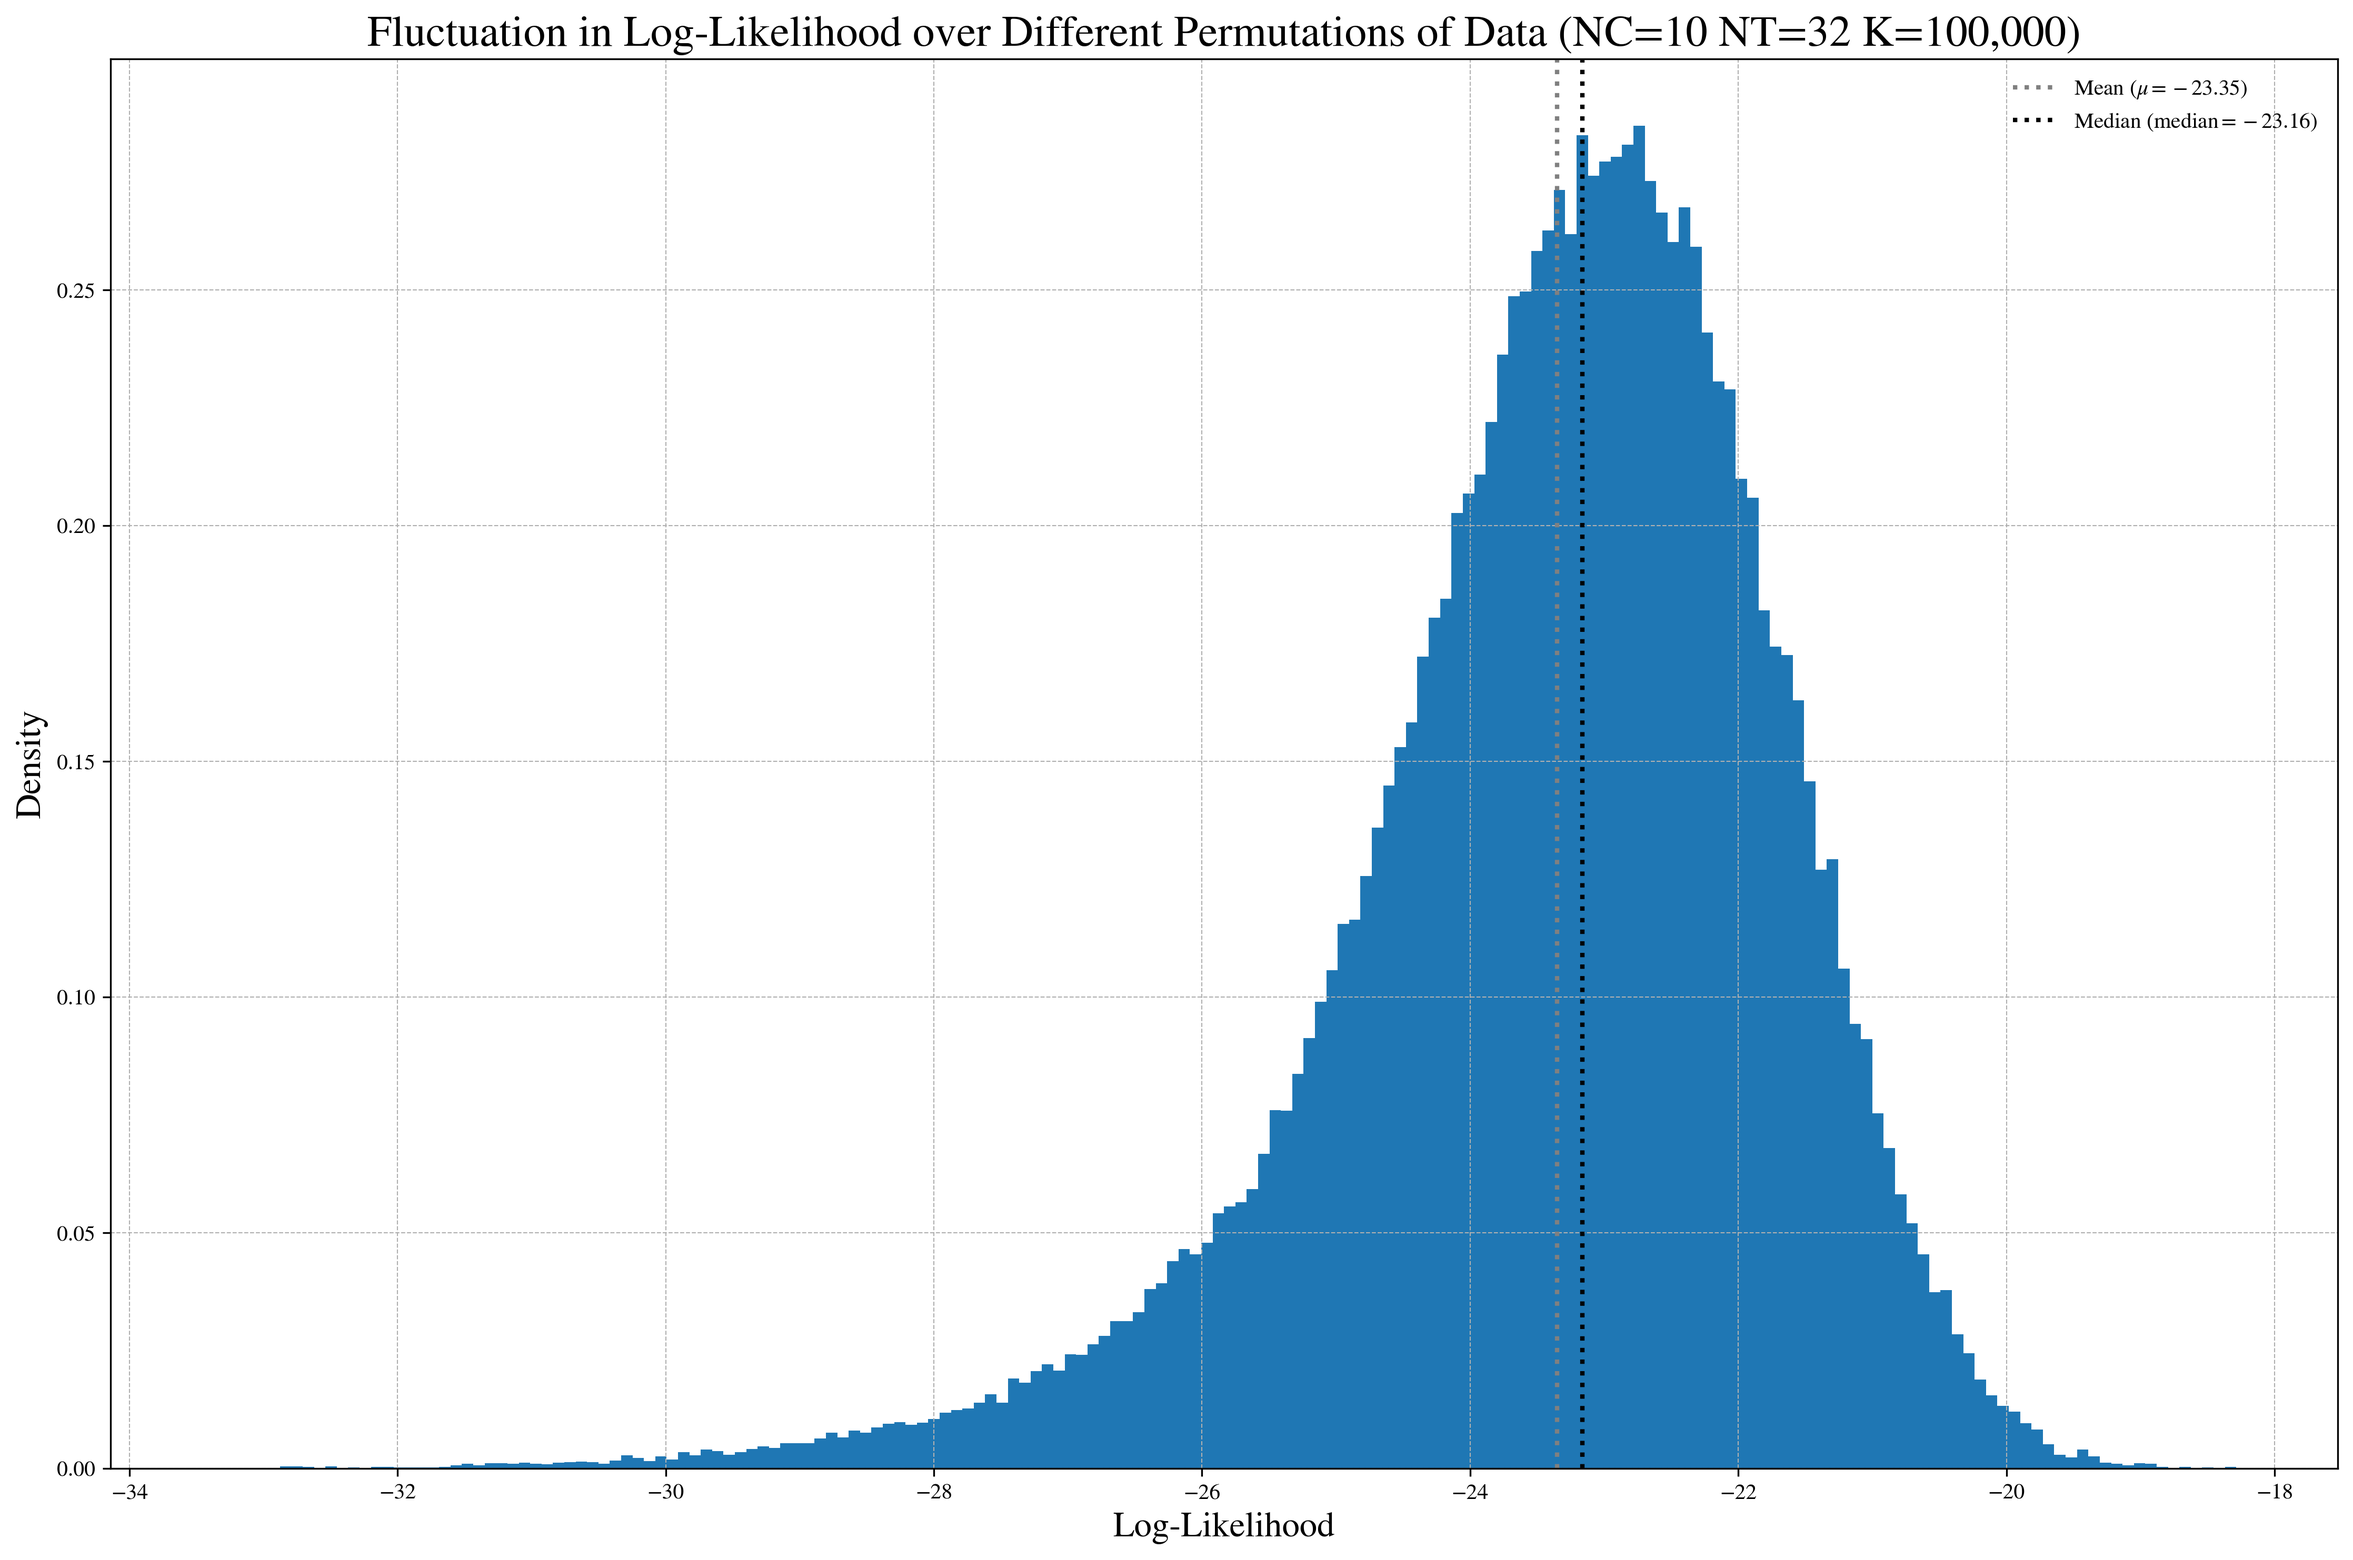
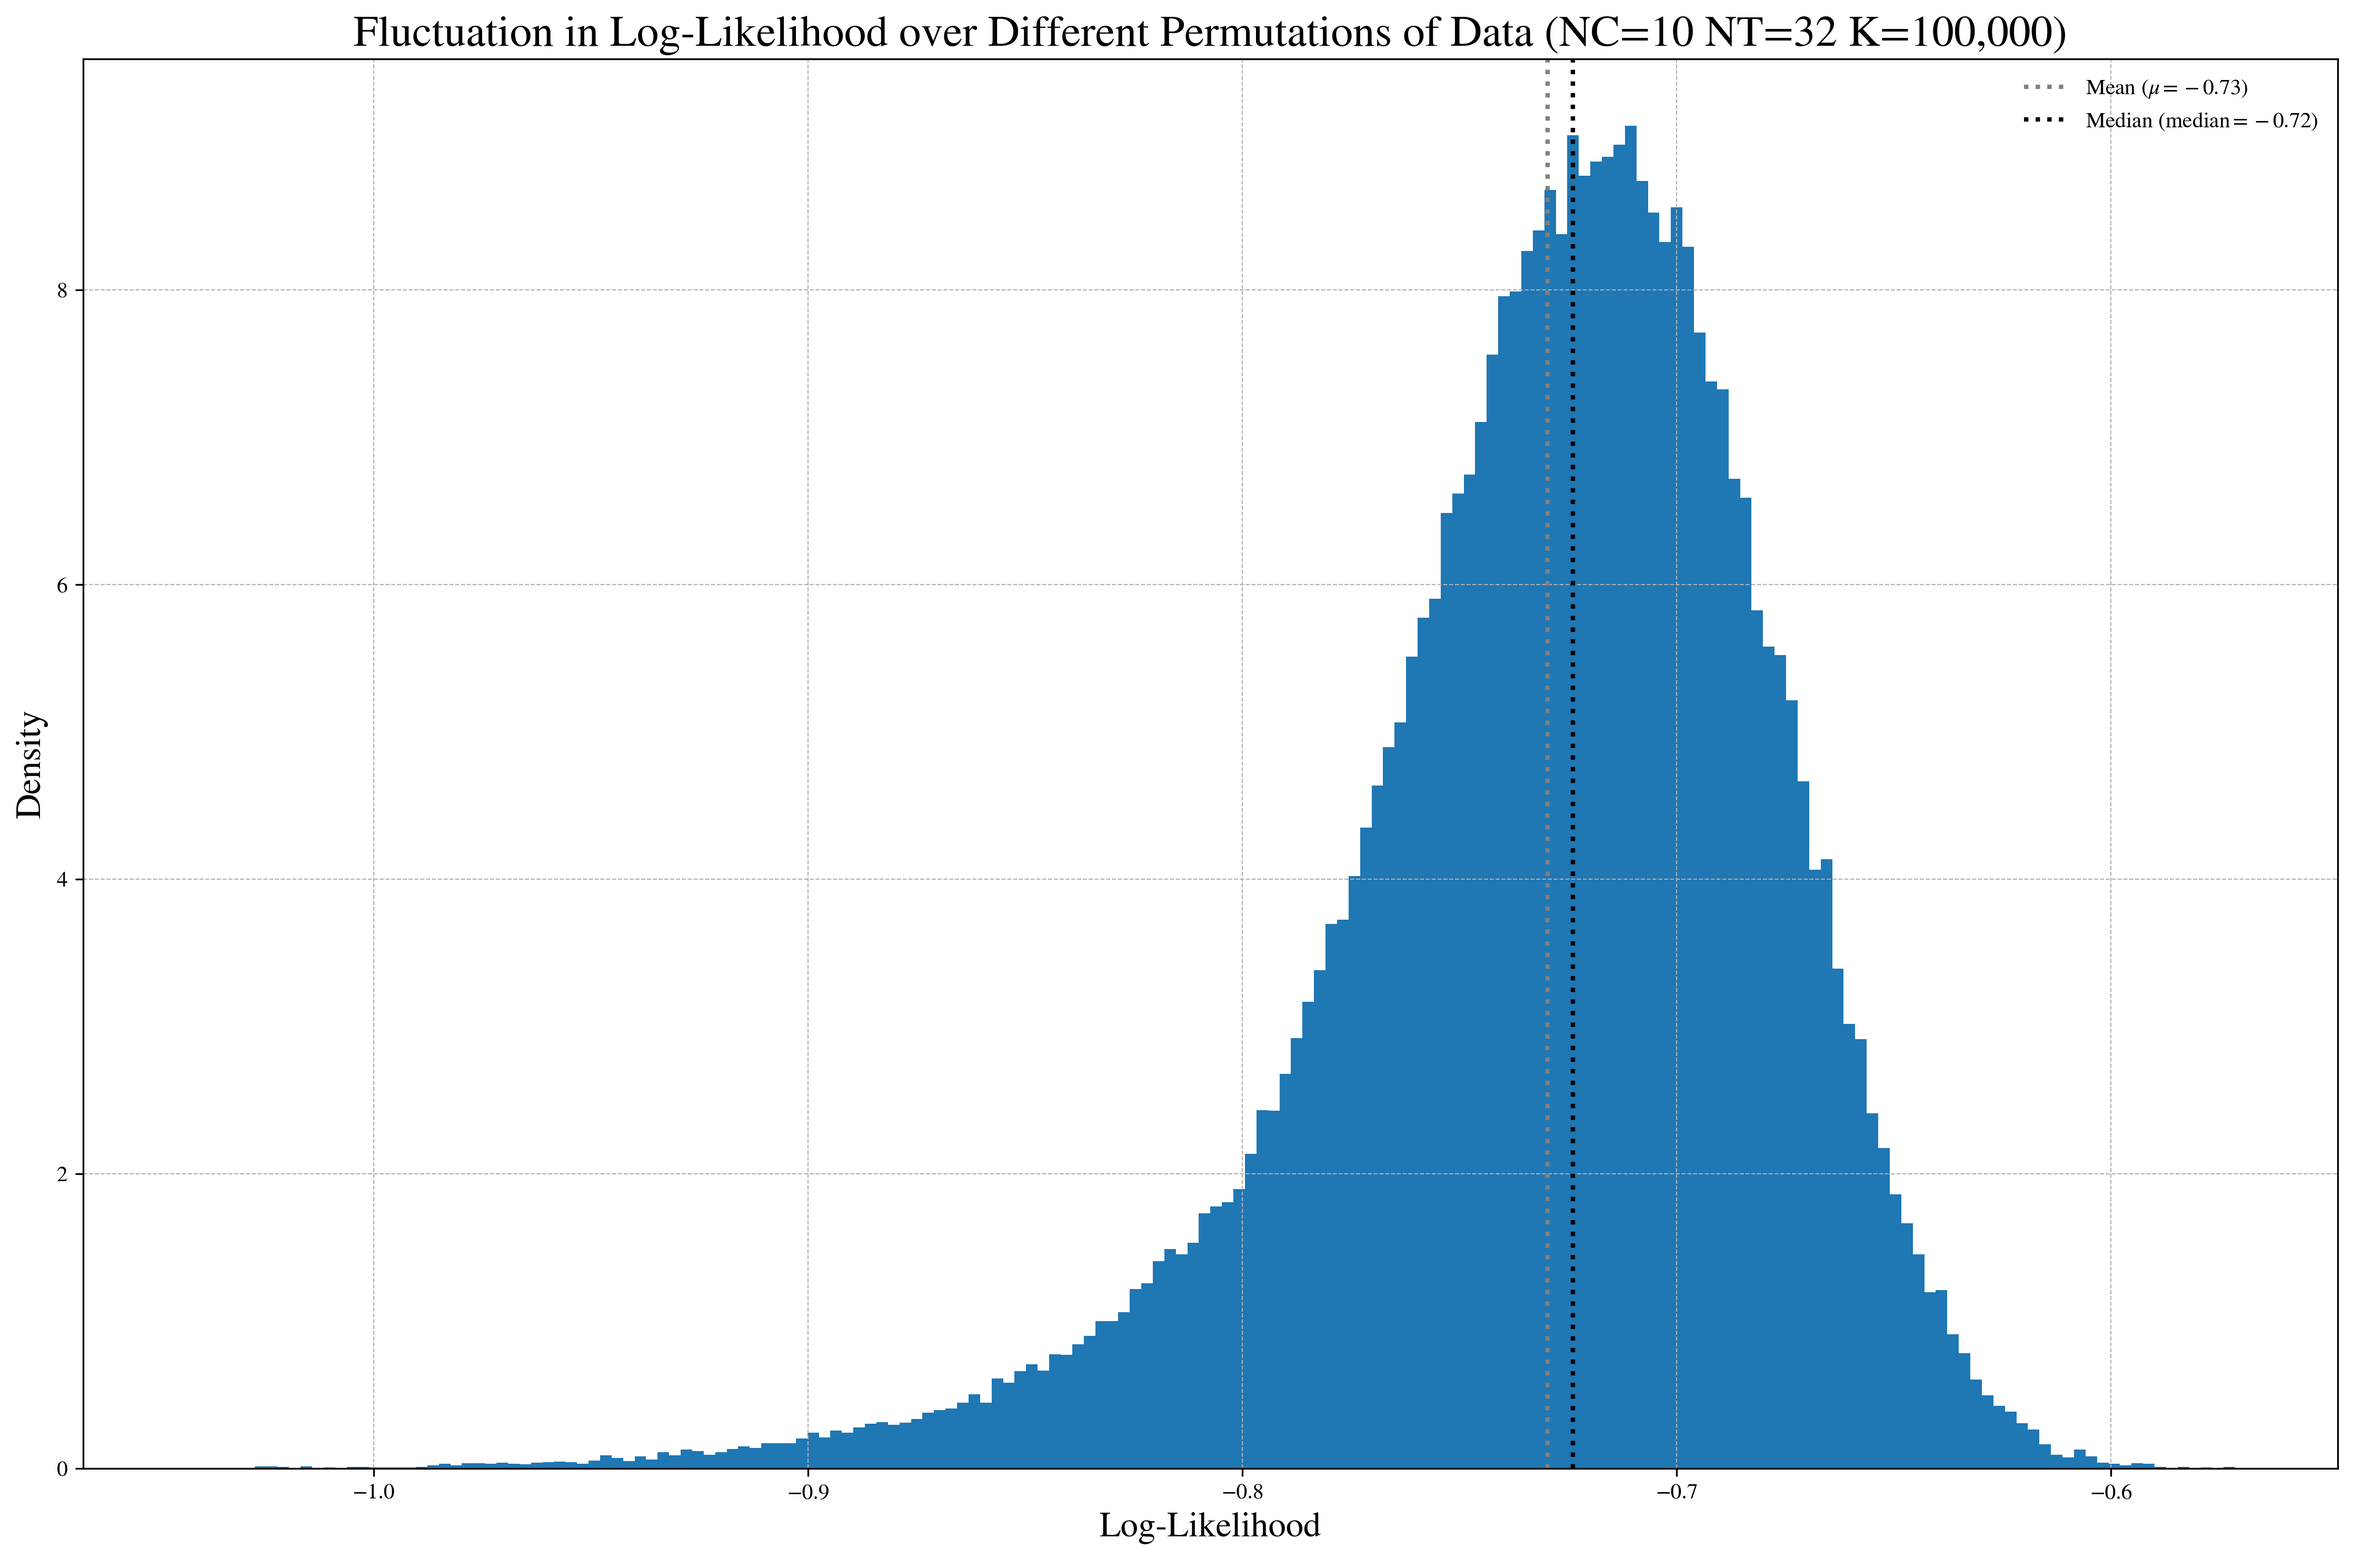
Normalised the LL correctly

diff --git a/experiments/plot_adversarial_perms.py b/experiments/plot_adversarial_perms.py
@@ -20,7 +20,7 @@ import os
 import wandb
 from tnp.data.base import Batch, GroundTruthPredictor
 from tnp.data.synthetic import SyntheticBatch
-from tnp.utils.np_functions import np_pred_fn
+from tnp.utils.np_functions import np_pred_fn, np_loss_fn
 from typing import Callable, List, Tuple, Union, Optional
 from torch import nn
 import copy
@@ -70,7 +70,13 @@ def gather_rand_perms(tnp_model, xc: torch.Tensor, yc: torch.Tensor, xt: torch.T
 
         data_time += time.time() - data_start_time
         inf_start_time = time.time()
-        log_p = tnp_model(xc_perm_batched, yc_perm_batched, xt_batched).log_prob(yt_batched).sum(dim=(-1, -2))
+        nt, dy = yt_batched.shape[-2:]
+        log_p = tnp_model(xc_perm_batched, yc_perm_batched, xt_batched).log_prob(yt_batched).sum(dim=(-1, -2)) / (nt * dy)
+
+        #batch = SyntheticBatch(xc=xc_perm_batched, yc=yc_perm_batched, xt=xt_batched, yt=yt_batched, 
+        #    x=torch.cat([xc_perm_batched, xt_batched], dim=1), y=torch.cat([yc_perm_batched, yt_batched], dim=1))
+        #yt_pred_dist = np_pred_fn(tnp_model, batch)
+        #log_p = -np_loss_fn(tnp_model, batch)
         inf_time += time.time() - inf_start_time
 
         log_p_list.append(log_p)
@@ -408,7 +414,9 @@ def visualise_perms(tnp_model, perms: torch.tensor, log_p: torch.tensor, xc: tor
     # Bins log probabilities to show variation in log probability with differing permutations
     plain_tnp_mean = None
     if plain_tnp_model is not None: 
-        plain_tnp_mean = plain_tnp_model(xc, yc, xt).log_prob(yt).sum(dim=(-1, -2)).item()
+        batch = SyntheticBatch(xc=xc, yc=yc, xt=xt, yt=yt, x=torch.cat([xc, xt], dim=1), y=torch.cat([yc, yt], dim=1))
+        nt, dy = yt.shape[-2:]
+        plain_tnp_mean = (plain_tnp_model(xc, yc, xt).log_prob(yt).sum(dim=(-1, -2)) / (nt * dy)).item()
     plot_log_p_bins(log_p.cpu(), f"{folder_path}/bins_dist_id_{file_id}", xc.shape[1], xt.shape[1], plain_tnp_mean)
 
 def get_model(config_path, weights_and_bias_ref, device='cuda'):
